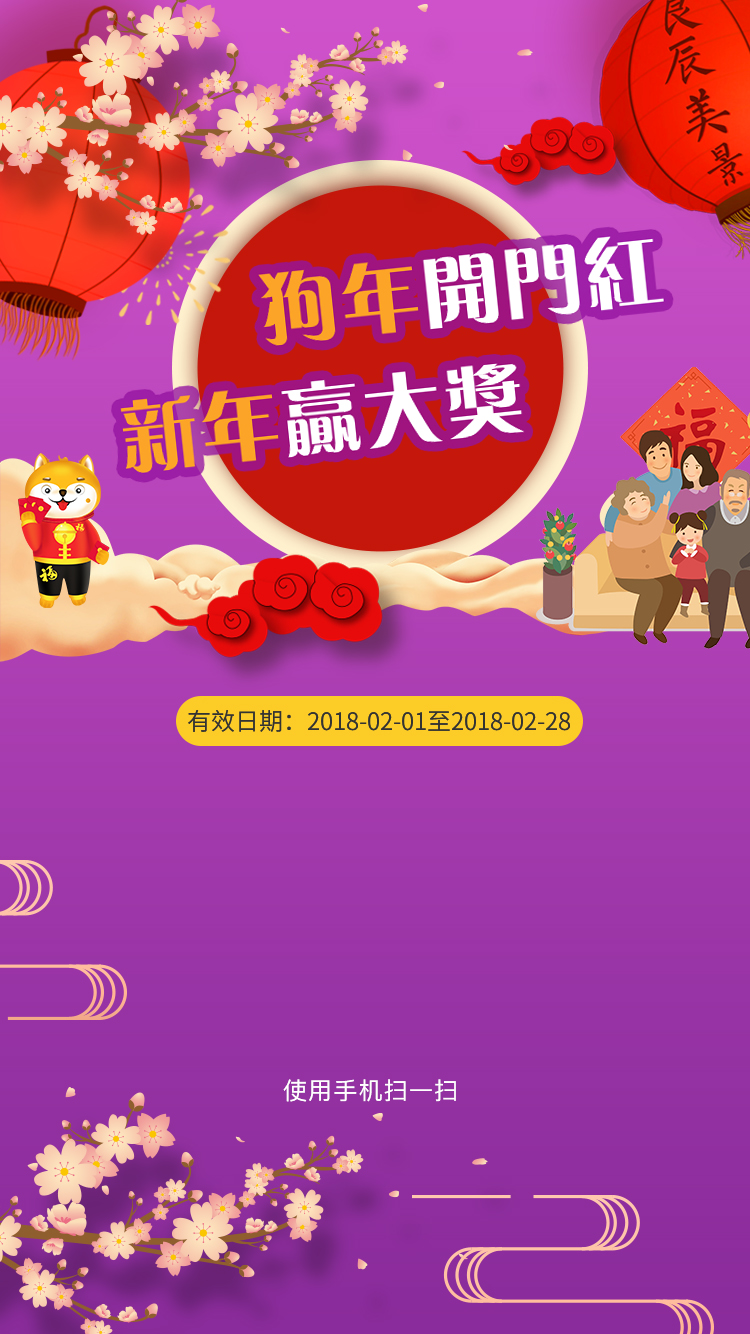
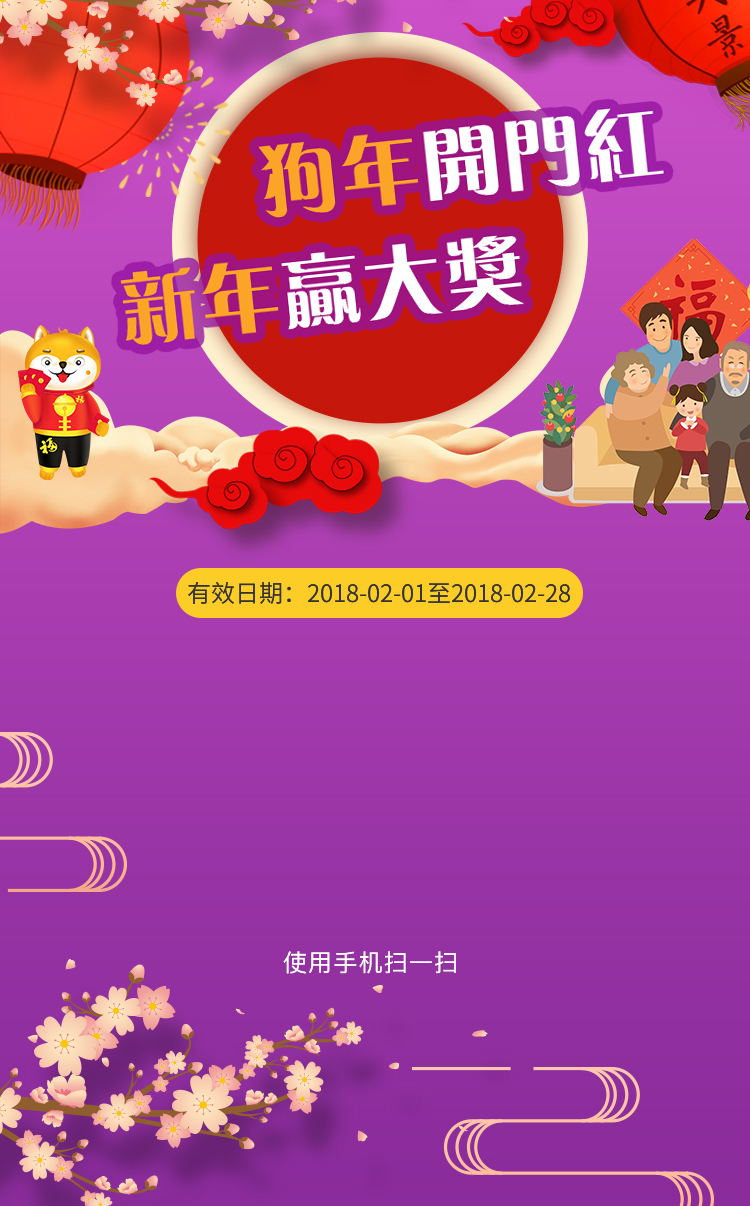
修改海报背景图

diff --git a/public/activity/css/activity.css b/public/activity/css/activity.css
@@ -134,8 +134,8 @@ a{
     background-size: cover;
     display: none;
     width: 100%;
-    height:100%;
-    position: fixed;
+    height:87%;
+    position: absolute;
     z-index: 2;
 
 }
@@ -151,7 +151,7 @@ a{
     line-height: 1rem;
     font-size: .3rem;
     color: rgba(51, 51, 51, 1);
-    top: 16rem;
+    top: 14rem;
     left:3rem;
     position: fixed;
 }
@@ -159,6 +159,6 @@ a{
     width: .4rem;
     height: .4rem;
     position: absolute;
-    top:10.2rem;
+    top:8.8rem;
     left: 3.2rem;
 }
